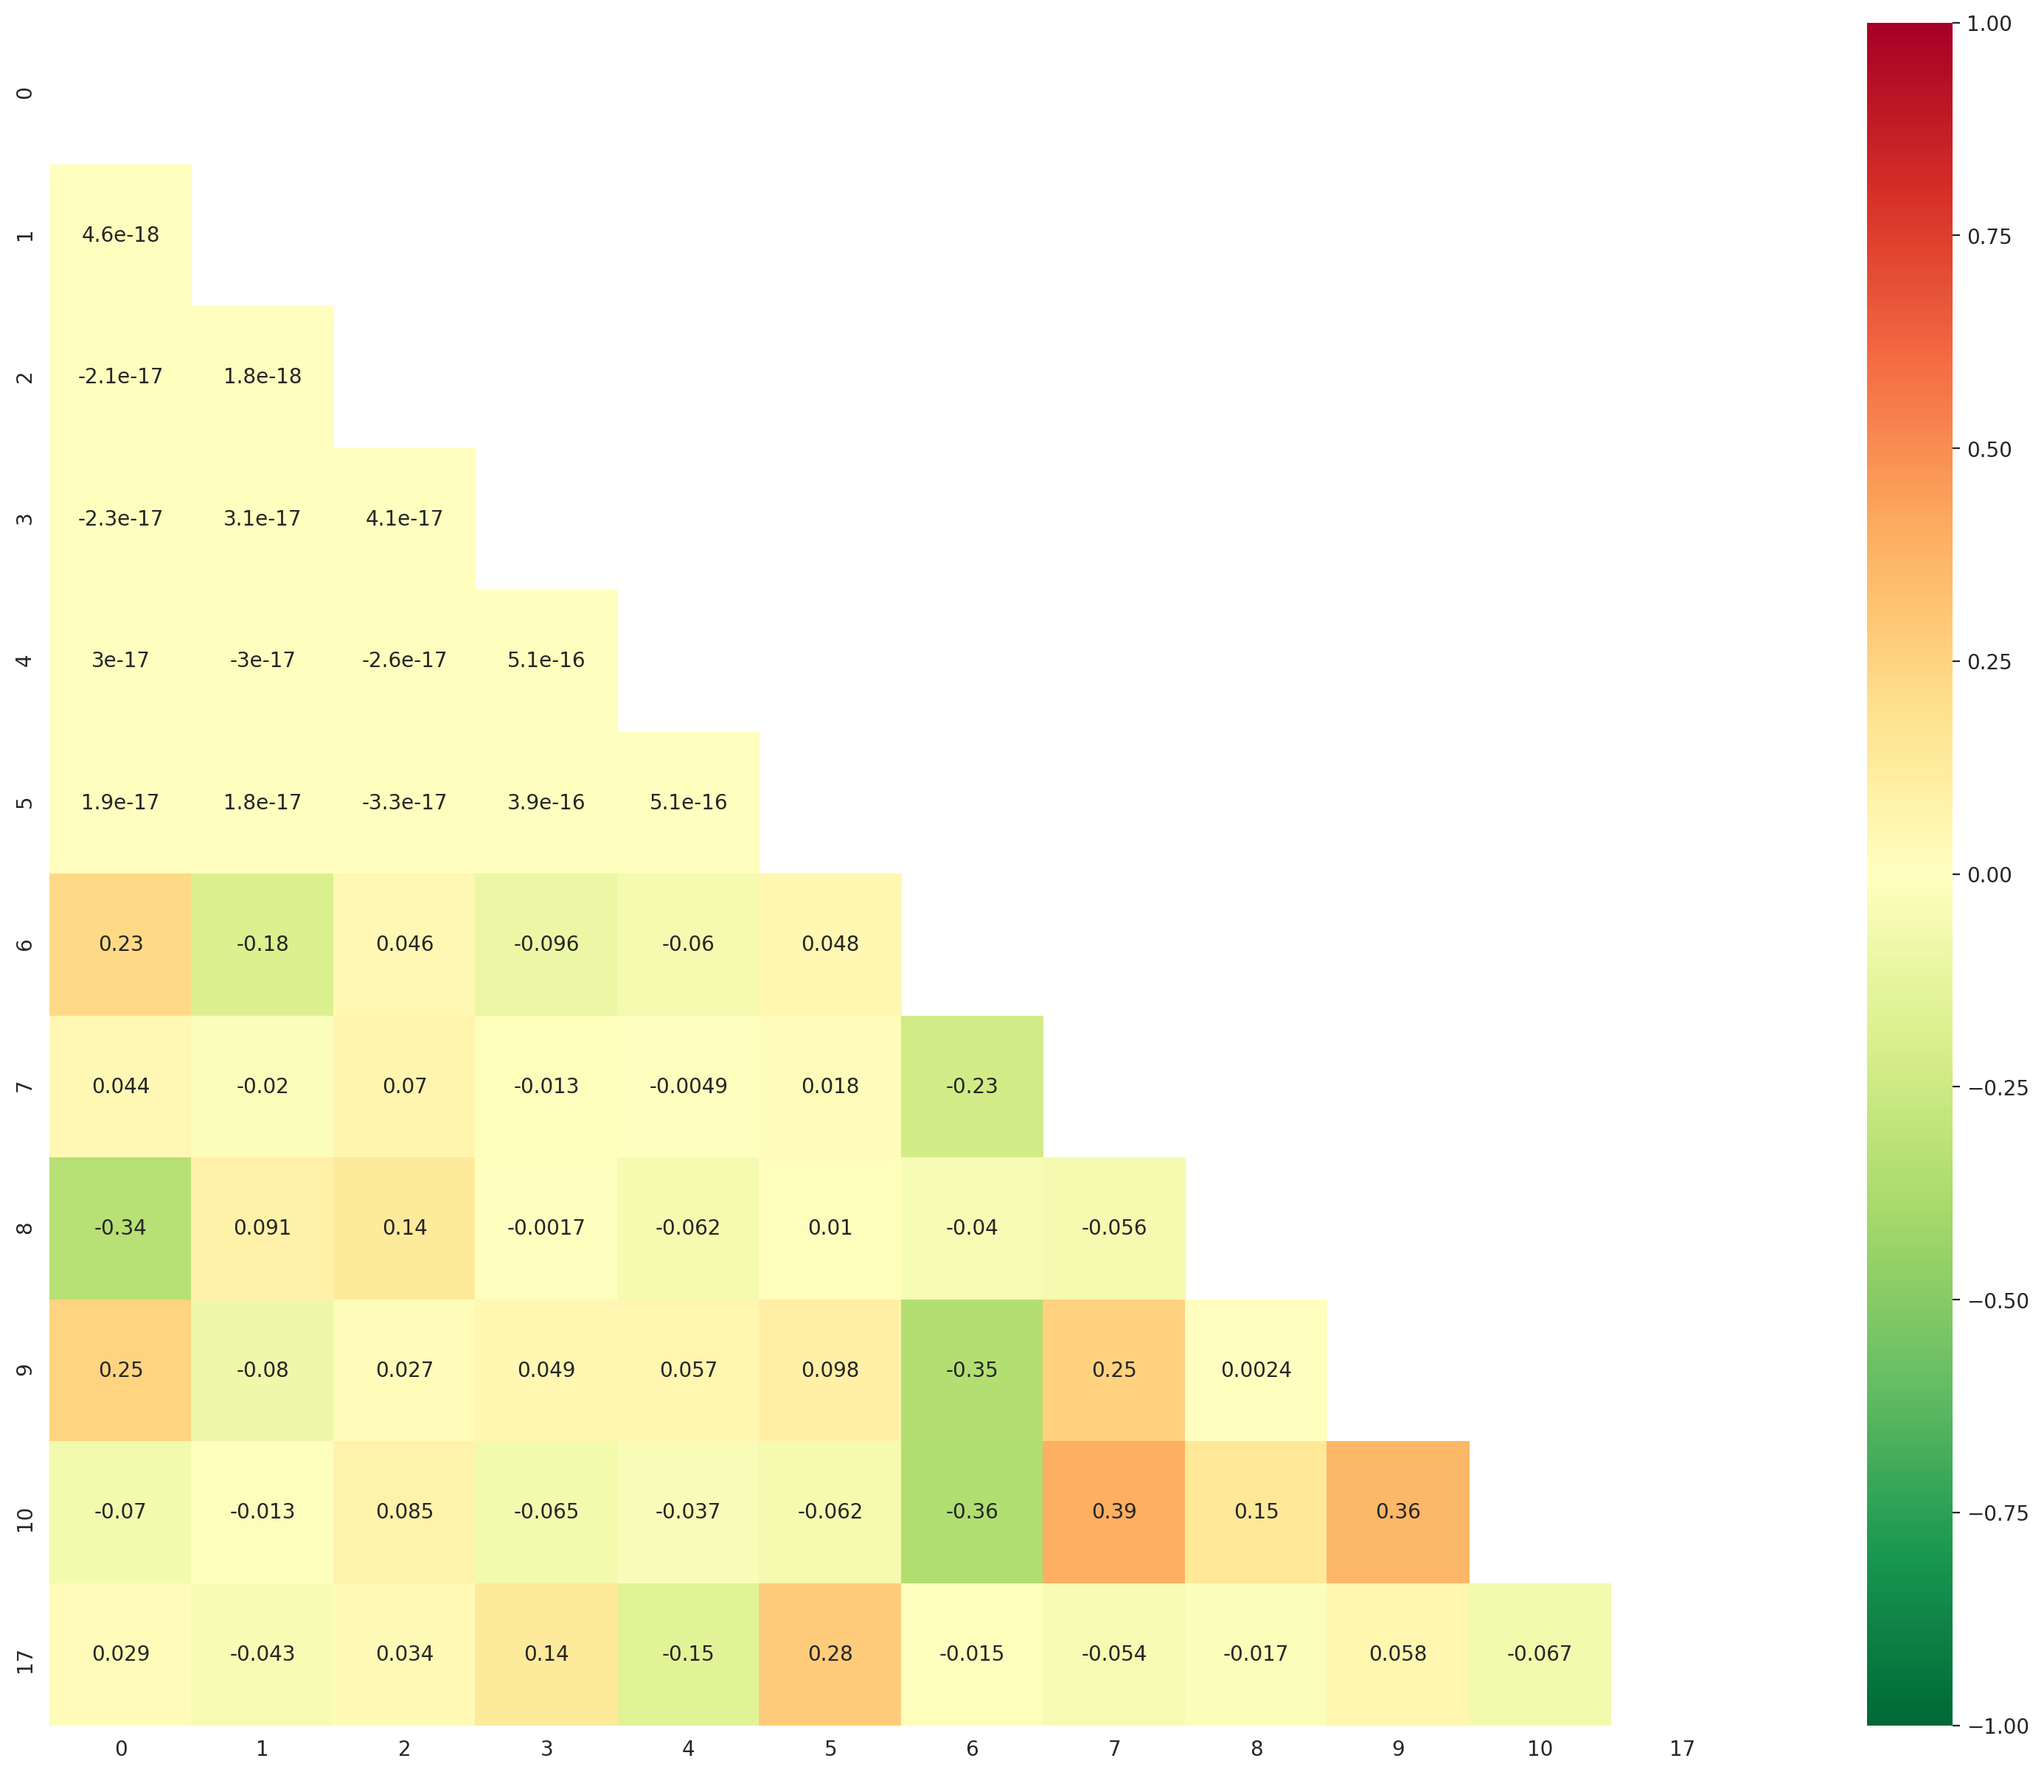
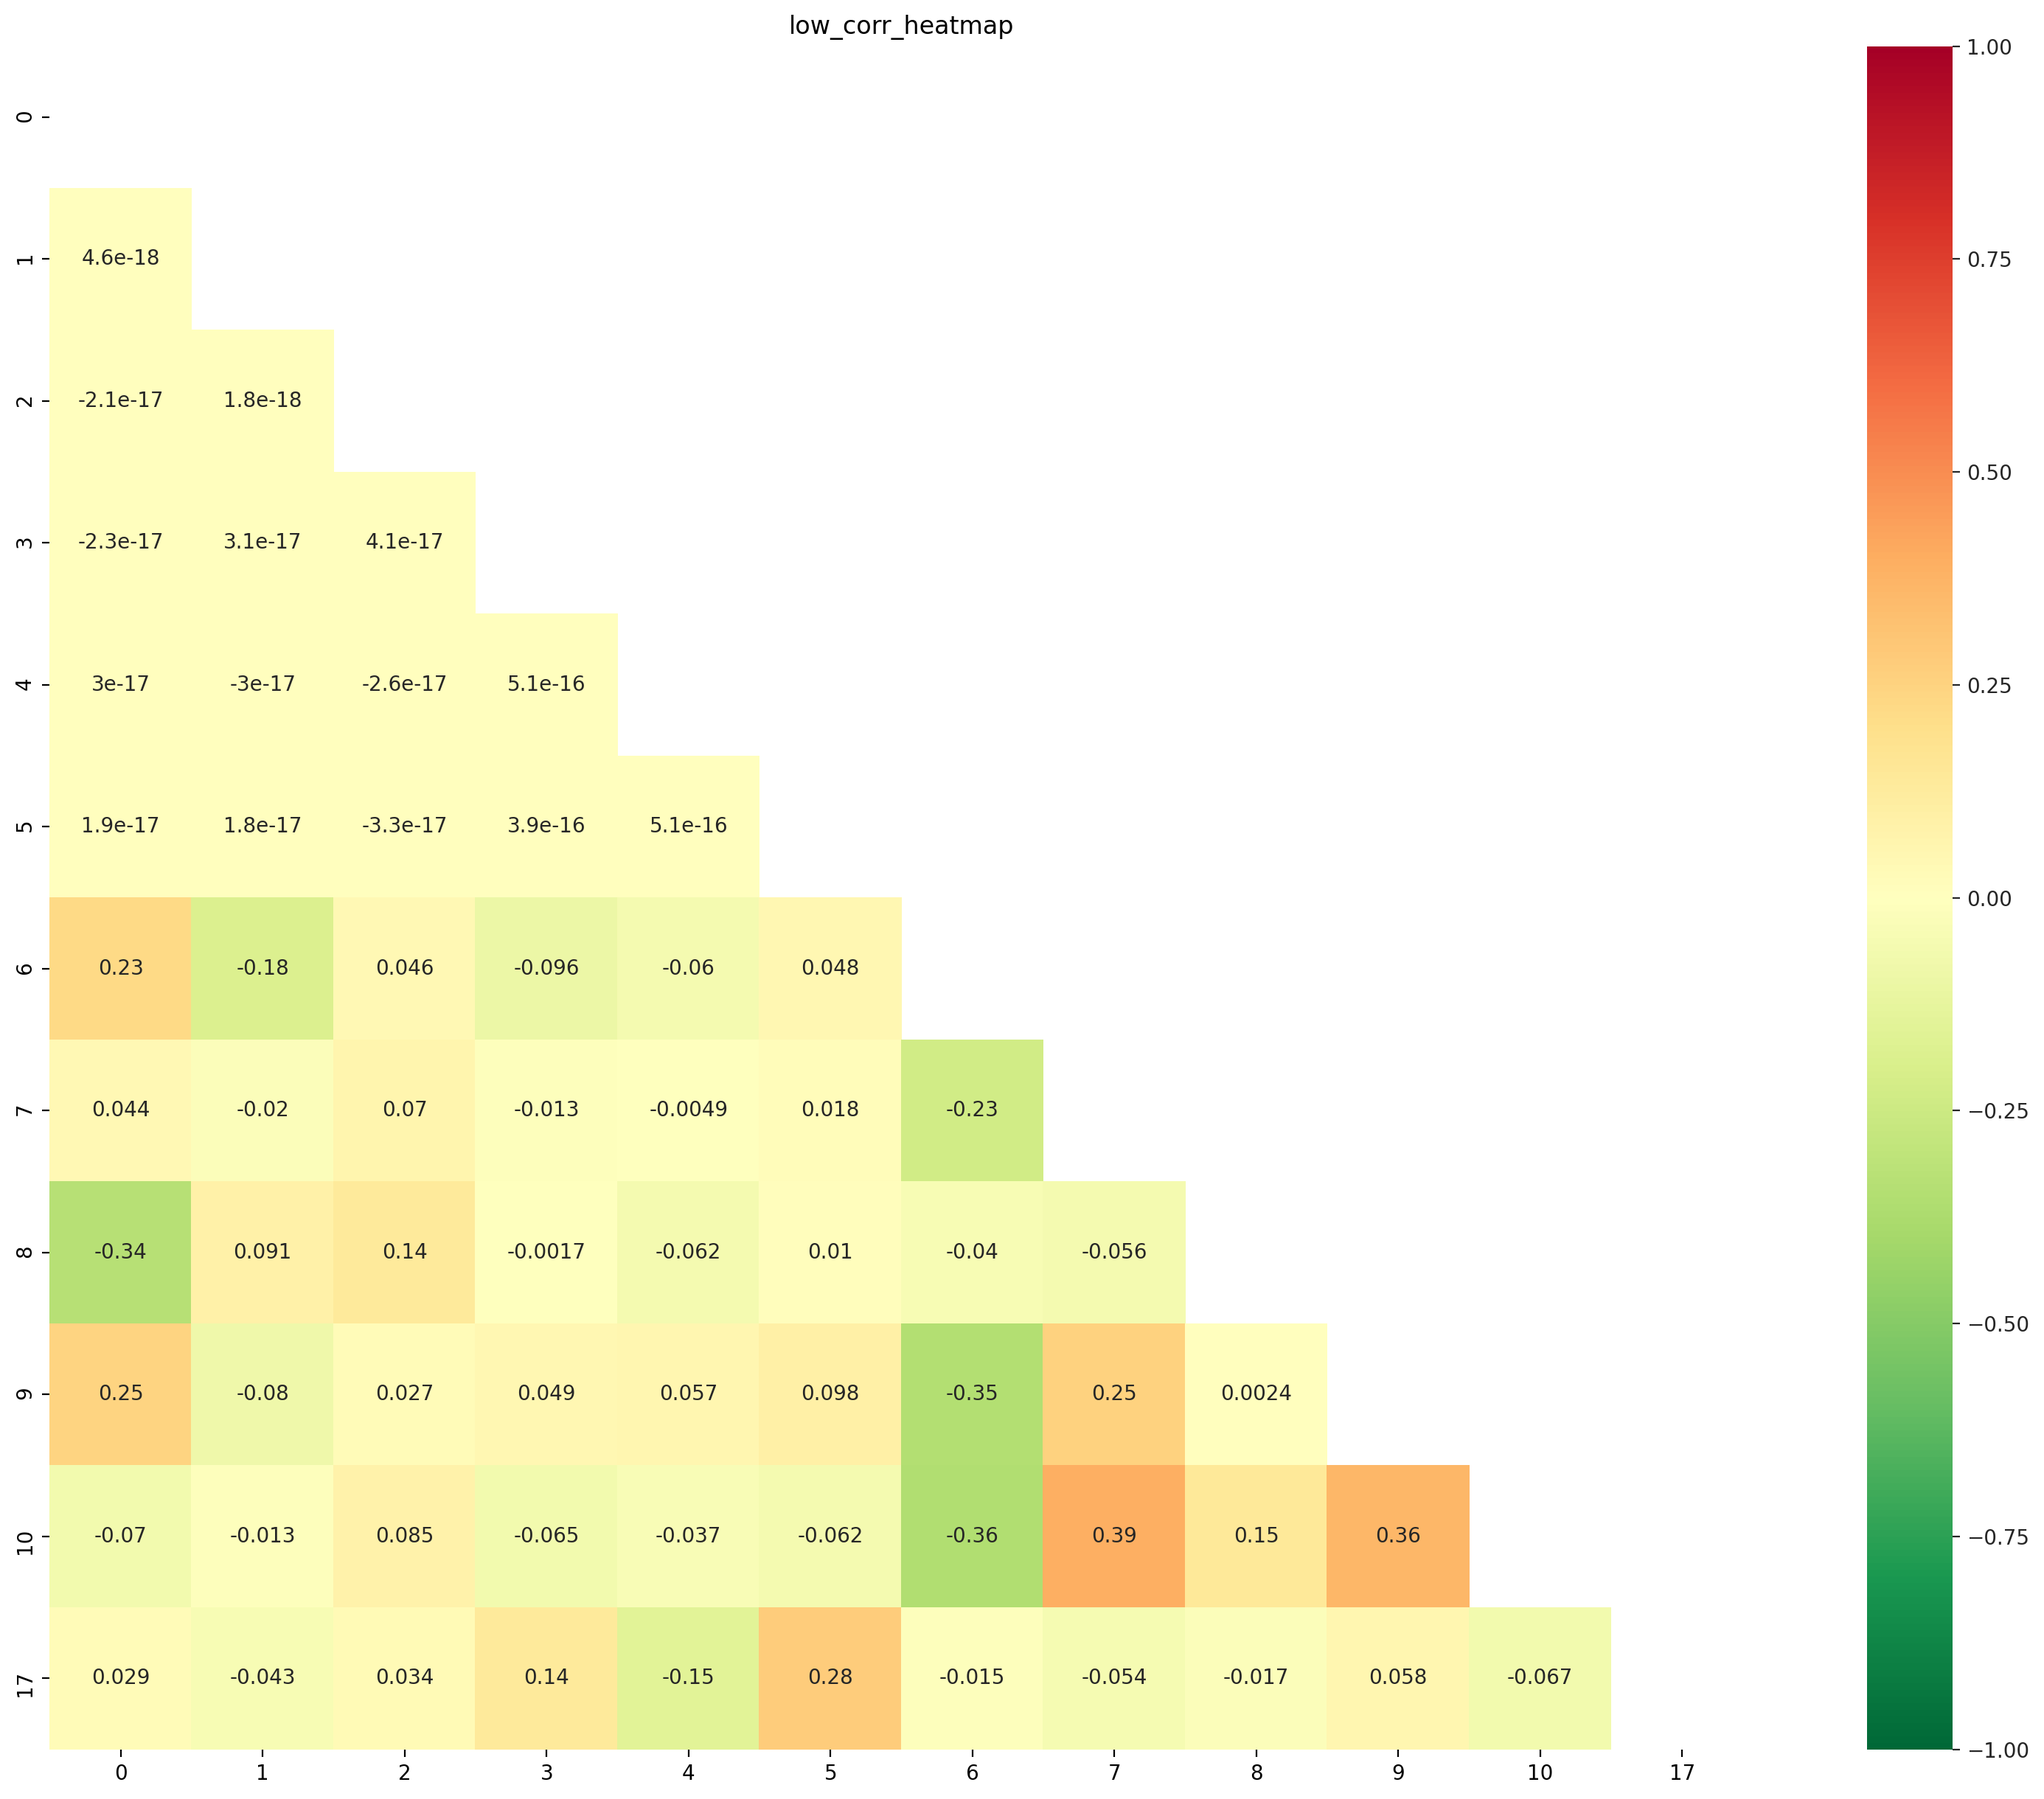
converted metrics results to dataframes, created plots for cluster and metric eval

diff --git a/Project_2/TP2.py b/Project_2/TP2.py
@@ -1,44 +1,45 @@
 import tp2_aux as utils
+import numpy as np
+import pandas as pd
+import pickle
+import os.path as path
 
-from sklearn.metrics import adjusted_rand_score, precision_score, recall_score, f1_score, silhouette_score
-from scipy.signal import find_peaks_cwt
+# Sklearn
+from sklearn.metrics import adjusted_rand_score, silhouette_score
 from sklearn.decomposition import PCA
 from sklearn.manifold import TSNE, Isomap
 from sklearn.feature_selection import f_classif
 from sklearn.cluster import KMeans, DBSCAN
 from sklearn.neighbors import KNeighborsClassifier
+
+# SciPy
+from scipy.signal import find_peaks_cwt
+
+# Plots
 import matplotlib.pyplot as plt
-from pandas.plotting import radviz, scatter_matrix, parallel_coordinates
 import seaborn as sns
 
-import numpy as np
-import pickle
-import pandas as pd
-from functools import partial
-from tqdm import tqdm
-from os import path
 
-"""def plot(x, y):
-    fig, ax = plt.subplots(figsize=(10, 10))
-    colors = ['#ffffff', '#8b0000', '#00a5ff', '#50c878']
-    values = np.unique(y)
-    for class_value in values:
-        x1_plot = x[np.where(y == class_value)][:, 0]
-        x2_plot = x[np.where(y == class_value)][:, 1]
-        ax.scatter(x1_plot, x2_plot, c=colors[int(class_value)], s=10)
-    # ax.scatter(x, y, '.r')
-    # ax.scatter(y, x, '.b')
-    # ax.set_title(title)
-    # ax.set_xlabel(x_title)
-    ax.legend(['UNKNOWN', 'CLASS 1', 'CLASS 2', 'CLASS 3'])
-    plt.savefig("myplot.png")
-    plt.show()
-    plt.close(fig)
-"""
+def plot_joint_plot(data, name):
+    plt.title(name)
+    sns.jointplot(data, hue="class")
+    sns.jointplot(data, hue="class", kind="kde")
+    plt.savefig(name + '.png', dpi=200, bbox_inches='tight')
+    plt.close()
+
+
+def plot_paired_density_and_scatter_plot(data, name):
+    plt.figure(figsize=(20, 15))
+    plt.title(name)
+    g = sns.pairplot(data, hue="class", markers=["o", "s", "D"])
+    g.map_lower(sns.kdeplot, hue="class")
+    plt.savefig(name + '.png', dpi=200, bbox_inches='tight')
+    plt.close()
 
 
 def plot_heatmap(data, name):
     plt.figure(figsize=(20, 15))
+    plt.title(name)
     _corr = data.corr()
     mask = np.zeros_like(_corr)
     mask[np.triu_indices_from(mask)] = True
@@ -49,19 +50,24 @@ def plot_heatmap(data, name):
     plt.close()
 
 
-def plot_parallel_coordinates(_data):
-    parallel_coordinates(_data, 'class')
-    plt.savefig('parallel.png', dpi=200, bbox_inches='tight')
-    plt.close()
-
-
 def plot_5dist(_data, _valleys, name):
+    plt.title(name)
     _x = np.linspace(0, len(_data), len(_data))
     plt.plot(_x, _data, '-b')
     plt.scatter(_valleys, _data[_valleys], marker="x", color=['r'], alpha=1, s=50)
     plt.savefig(name)
     plt.close()
-    pass
+
+
+def plot_metrics(data, name, parameter):
+    plt.figure(figsize=(20, 15))
+    plt.title(name)
+    g = sns.FacetGrid(data, col="metric", hue='metric', col_wrap=3, margin_titles=True)
+    g.map_dataframe(sns.lineplot, x='x', y='y')
+    g.set_axis_labels("Metric Value", parameter)
+    g.set_titles(col_template="{col_name}")
+    plt.savefig(name + '.png', dpi=200, bbox_inches='tight')
+    plt.close()
 
 
 def standardize(_data):
@@ -81,7 +87,7 @@ def selectKBest(_data, _filter, _k=18):
     return _data[:, np.argsort(_filter)[:_k][::-1]]
 
 
-def selectLowestCorr(correlation_matrix, max_correlation=0.5):
+def filter_low_high_corr(correlation_matrix, max_correlation=0.5):
     to_keep = [i for i in range(correlation_matrix.shape[1])]
     to_remove = []
     for i in range(correlation_matrix.shape[1]):
@@ -100,15 +106,15 @@ def selectLowestCorr(correlation_matrix, max_correlation=0.5):
     return to_keep, to_remove
 
 
-def cluster_eval(_feats, _predicted_labels, _true_labels):
-    #adjusted_rand_score, precision_score, recall_score, f1_score, silhouette_score
+def cluster_eval(_feats, _predicted_labels, _true_labels, _y):
+    # adjusted_rand_score, precision_score, recall_score, f1_score, silhouette_score
     labeled_feats = _feats[LABELED]
     tp = 0
     tn = 0
     fn = 0
     fp = 0
     for i in range(labeled_feats.shape[0]):
-        for j in range(i+1, labeled_feats.shape[0]):
+        for j in range(i + 1, labeled_feats.shape[0]):
             if i == j:
                 continue
             else:
@@ -121,32 +127,45 @@ def cluster_eval(_feats, _predicted_labels, _true_labels):
                     fn += 1
                 else:
                     tn += 1
-    n_pairs = (labeled_feats.shape[0] * (labeled_feats.shape[0]-1))/2
+    n_pairs = (labeled_feats.shape[0] * (labeled_feats.shape[0] - 1)) / 2
     precision = tp / (tp + fp)
     recall = tp / (tp + fn)
     rand_index = (tp + tn) / n_pairs
-    f1 = 2 * (precision*recall)/(precision+recall)
-    scores = {"silhouette_score": silhouette_score(_feats, _predicted_labels)
-            , "precision_score": precision
-            , "recall_score": recall
-            , "f1_score": f1
-            , "adjusted_rand_score": adjusted_rand_score(_true_labels, _predicted_labels[LABELED])
-            , "rand_index": rand_index}
-    return scores
+    f1 = 2 * (precision * recall) / (precision + recall)
+    _silhouette_score = silhouette_score(_feats, _predicted_labels)
+    _adjusted_rand_score = adjusted_rand_score(_true_labels, _predicted_labels[LABELED])
+    print({"silhouette_score": _silhouette_score,
+           "precision_score": precision,
+           "recall_score": recall,
+           "f1_score": f1,
+           "adjusted_rand_score": _adjusted_rand_score,
+           "rand_index": rand_index})
+    # after (...).append( (...) , ignore_index=True)
+    return [
+        pd.Series(['silhouette_score', _silhouette_score, _y], index=METRICS_COLS),
+        pd.Series(['precision_score', precision, _y], index=METRICS_COLS),
+        pd.Series(['recall_score', recall, _y], index=METRICS_COLS),
+        pd.Series(['f1_score', f1, _y], index=METRICS_COLS),
+        pd.Series(['adjusted_rand_score', _adjusted_rand_score, _y], index=METRICS_COLS),
+        pd.Series(['rand_index', rand_index, _y], index=METRICS_COLS)
+    ]
 
-def generate_KMeans_clusters(_data, n_clusters):
+
+def generate_KMeans_clusters(_data, n_clusters, _true_labels):
+    _results = []
     for n in range(n_clusters + 1):
-        cluster_eval(KMeans(n_clusters=n).fit_predict(_data))
+        _results.append(cluster_eval(_data, KMeans(n_clusters=n).fit_predict(_data), _true_labels, n))
+    return _results
 
 
-def generate_DBSCAN_clusters(_data, _valleys_dists):
+def generate_DBSCAN_clusters(_data, _valleys_dists, _true_labels):
+    _results = []
     for v in _valleys_dists:
-        cluster_eval(DBSCAN(eps=v).fit_predict(_data))
+        _results.append(cluster_eval(_data, DBSCAN(eps=v).fit_predict(_data), _true_labels, v))
+    return _results
 
 
 np.set_printoptions(precision=4, suppress=True)
-tqdm = partial(tqdm, position=0, leave=True)
-
 labels = np.loadtxt("labels.txt", delimiter=",")
 LABELED = np.where(labels[:, -1] != 0)
 
@@ -161,23 +180,35 @@ else:
     img_mat = utils.images_as_matrix()
     feats = np.column_stack([pca.fit_transform(img_mat), tsne.fit_transform(img_mat), iso.fit_transform(img_mat)])
     pickle.dump(feats, open("feats.p", "wb"))
+
+DATA_COLS = [f'{num}' for num in range(feats.shape[1])].append("class")
+METRICS_COLS = ["metric", "x", "y"]
+data_df = pd.DataFrame(np.column_stack([feats, labels[:, -1]]), columns=DATA_COLS)
 print("Features extracted")
 
-#plot_data = selectKBest(feats, f_test(feats[LABELED], labels[LABELED][:,-1]), 18)
-plot_data = feats
+# -----------------------------------------------------------------Feature selection------------------------------------------------------------------
+# Finding low and highly correlated features
+LOW_CORR, HIGH_CORR = filter_low_high_corr(data_df.iloc[:, :-1].corr())
+plot_heatmap(data_df.iloc[:, :-1], "full_heatmap")
+plot_heatmap(data_df.iloc[:, LOW_CORR], "low_corr_heatmap")
+# plot_data = selectKBest(feats, f_test(feats[LABELED], labels[LABELED][:,-1]), 18)
 
-columns = [f'{num}' for num in range(plot_data.shape[1])]
-columns.append("class")
-dataframe = pd.DataFrame(np.column_stack([plot_data, labels[:, -1]]), columns=columns)
-low_corr, high_corr = selectLowestCorr(dataframe.iloc[:, :-1].corr())
-plot_heatmap(dataframe.iloc[:, :-1], "full_heatmap")
-plot_heatmap(dataframe.iloc[:, low_corr], "low_corr_heatmap")
+# Sequential backward elimination
+
+# KMeans
+# DBSCAN
+# Bisecting K-Means
+
+# -----------------------------------------------------------------Cluster Generation-----------------------------------------------------------------
+
+# KMeans
+# DBSCAN
 
 # kn = KNeighborsClassifier()
 # kn.fit(plot_data, np.zeros(plot_data.shape[0]))
 # kneighbors = np.sort(np.array(kn.kneighbors()[0]).flatten())[::-1]
 
-plot_data = plot_data[:,high_corr]
+plot_data = feats[:, HIGH_CORR]
 _5dists = np.sort(np.linalg.norm(plot_data - plot_data[:, None], axis=-1), axis=-1)[::-1][:, 4]
 _5dists = np.sort(_5dists)[::-1]
 
@@ -185,15 +216,4 @@ valleys = find_peaks_cwt(_5dists * (-1), np.arange(1, 4))
 valleys_dists = _5dists[valleys]
 plot_5dist(_5dists, valleys[0], "5-dists")
 
-kmeans = KMeans(n_clusters=3)
-final_labels = kmeans.fit_predict(plot_data)
-
-print(cluster_eval(plot_data, final_labels, labels[LABELED][:, -1]))
-
-# Plot clusters to features
-
-
-# Evaluate clusters
-
-
-# Plot evaluation metrics
+# Bisecting K-Means
